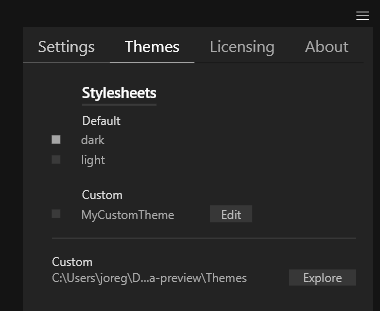
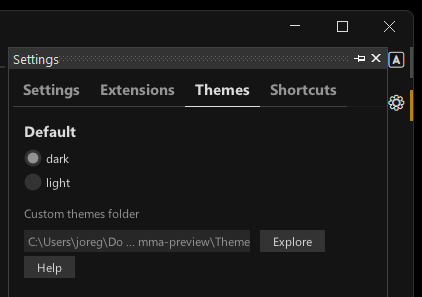
updates info on packman + cosmetics

diff --git a/reference/hde/packman.md b/reference/hde/packman.md
@@ -2,13 +2,41 @@
 
 Available for testing in **[vvvv gamma 8.0 preview builds](/download)**!
 
+The package manager covers two aspects:
+- **Managing references** to packs, files (.vl, .dll, .csproj) and .NET Framework Assemblies
+- **Browsing** for VL and NuGet **packs**, which are bundles of .vl and .dll files that you can install and reference with a single click, giving you access to all nodes the pack exposes.
+
+## Managing References
+
+In this section you get an overview of all referenced packs, files and .NET Framework assemblies. 
+
+Click the "Browse" button in the Packs section to switch to the [package browser](#browsing-packs):
+![](../../images/hde/addpacks.png)
+
+Click the "Add..." button in the Files section to add a reference to either:
+- .vl documents
+- .csproj files
+- .dll files
+  
+![](../../images/hde/addfiles.png)
+
+### .NET Framework Assemblies
+If you need to reference an assembly of a .NET Framework, then always prefer that over referencing the same as a .NET NuGet reference.
+
+what about built-in?
+
+### Node Factories
+If any of the pack or file references has a Node Factory, it will also show up, and can be configured (enabled, forwarded) here.
+
+## Browsing packs
+
 ![](../../images/reference/hde/packman.png)
 
 ## Basic Usage
 
 For basic usage there is not much you need to know:
 - Open Packman using Ctrl + F3
-- Choose the "Browse..." tab
+- Choose the "Browse Packs" tab
 - Find the pack you want to use
 - Click the blue "Add" button to download and reference it to your active document
 - Done
@@ -110,34 +138,6 @@ When installing a pack, vvvv checks against that list and informs you in case yo
 
 ![](../../images/reference/hde/packman-vulnerables.png)
 
-## Quick VL pack reference
-
-The best thing about Packman is that in the end you will not even need it that much! If you already know the name of a VL pack you want to reference, you can now simply add it via the Nodebrowser. Check this: 
-
-<video width=100% controls autoplay>
-    <source src="../../images/reference/hde/packman-nfc.mp4" type="video/mp4">
-    Your browser does not support the video tag.  
-</video>
-
-Type the name of any pack in the nodebrowser, select it and you're done. Any VL pack found in Packman or in the [online packs browser](https://vvvv.org/packs/) can be added like this.
-
-Say what? What does this do exactly? Two things: 
-- Downloads the preferred version (see below) of the pack
-- References this version of the pack with your active VL document
-
-Want to remove the pack again? Same trick:
-
-<video width=100% controls autoplay>
-    <source src="../../images/reference/hde/packman-nfc2.mp4" type="video/mp4">
-    Your browser does not support the video tag.  
-</video>
-
-So when do you now still need Packman? 
-- To search for packs
-- To get more information about a VL pack
-- To adjust versions for referenced packs
-- To search for and reference .NET NuGets (ie. packs that are not specifically made for VL) 
-
 ## Preferred version of a pack
 
 The question may arise: When you simply choose to add a reference of a pack via the Nodebrowser, without specifying a version, what version will you get? The answer: vvvv has an idea of a preferred version per pack and here is how that's computed:
@@ -166,26 +166,8 @@ Little caveat: If you've used favorites in the Helpbrowser before, those will no
 
 ## Support developers
 
-Also please pay extra attention to this special listing: 
+Please pay extra attention to this special listing: 
 
 ![](../../images/reference/hde/packman-support.png)
 
 Packs don't appear out of thin air. They are made and maintained by your fellow patchers. If a pack is useful to you, please support the creator! 
-
-## Install packs via Helpbrowser
-
-There is more. Remember how previously you'd have to find a pack, install it and only then get access to its help patches via the Helpbrowser?
-
-Now, when searching in the Helpbrowser, it also looks for packs that might fit you term and displays those in a separate section at the very bottom labeled "More Packs". If you find anything here, you can one-click download the pack and get instant access to its helps.
-
-![](../../images/reference/hde/packman-helpbrowser.png)
-
-Note the difference: if you download a pack here, it is simply available offline and you can browse its help patches. It is not yet referenced with any of your documents!
-
-Also you may wonder: The content of which packs does the Helpbrowser show at all and in what version? 
-
-Remember: In versions <= 7.x of vvvv gamma, the packs you'd see in the Helpbrowser would always be the most recent ones found in your nuget folder.
-
-Since that folder does not exist anymore, there are now different rules: 
-- If a specific version of a pack is loaded, the Helpbrowser shows the help content of that particular version
-- Otherwise, the Helpbrowser shows the content of the preferred version (see above) of the pack, but only if it is already available on your system (ie. you have had it referenced/downloaded before)

diff --git a/reference/getting-started/cc/introduction-for-creative-coders.md b/reference/getting-started/cc/introduction-for-creative-coders.md
@@ -22,15 +22,17 @@ If you're familiar with visual creative coding environments, like:
 
 ... then the following could be interesting for you:
 
-### Vast, modular, open-source library of nodes
-Browse the [Library](../../libraries/overview.md) section to get an overview of the availability of a vast range of different libraries for vvvv, most of which are open-source (some not yet, but only for organisational reasons). Apart from the [VL.CoreLib](../../libraries/corelib.md) the three biggest to date are:
+### The Node Library
+
+vvvv is built in a very modular way. The initial download is only about 100mb (as of vvvv 8.0). Any additional functionality you want to use can be installed at the click of a button via the built-in [package manager](/reference/hde/packman.md). There is also this [online package browser](https://vvvv.org/packs) to give you an idea of what's available before even installing vvvv. 
+
+Almost all libraries are open-source, including all of the core libraries, like:
 - VL.Stride: for 3d rendering, shader programming, VR,... based on [Stride](http://stride3d.net)
 - VL.Skia: for 2d rendering, vector graphics export,... based on [Skia](https://skia.org)
 - [VL.OpenCV](https://www.nuget.org/packages/VL.OpenCV): for computer vision,... based on [OpenCV](http://opencv.org)
 - [VL.Fuse](https://www.nuget.org/packages/VL.Fuse): a collection of GPU tools and libraries to use with VL.Stride
-- [VL.Elementa](https://www.nuget.org/packages/VL.Elementa): a UI widget library for VL.Skia  
 
-Further there is a big focus on supporting loads of [Devices](https://thegraybook.vvvv.org/reference/libraries/devices.html) and [Protocols](https://thegraybook.vvvv.org/reference/libraries/io.html) out of the box.
+Further there is a big focus on supporting loads of [Devices](https://vvvv.org/packs/?c=Devices) and [Protocols](https://vvvv.org/packs/?c=IO) out of the box.
 
 ### Export Windows applications
 Any program you build with vvvv can be [exported](../../hde/exporting.md) as a proper Windows application. Other platforms are planned. 

diff --git a/reference/hde/the_nodebrowser.md b/reference/hde/the_nodebrowser.md
@@ -96,12 +96,33 @@ The language primitives are written in _italic_:
 
 Many of the primitives can be given a name directly after choosing to create them via the NodeBrowser. For Pins and Pads it also works the other way round: type a name into the NodeBrowser and then click Pin/Pad to create the respective element with already the desired name set.
 
-## Available Nugets
-Nugets that are available for VL but not referenced by the active document show up in the NodeBrowser from where you can quickly reference them via a single click. After the nuget is referenced all its nodes show up in the NodeBrowser.
+## Referencing packs
 
-<img src="../../images/hde/vl-Nodebrowser-Nugets.png" height="460">
+All [available packs](https://vvvv.org/packs/) can directly be referenced via the Node Browser, without having to go via [Packman](packman.md).
 
-If you want to get rid of a nuget again you have to uncheck it in the documents list of dependencies.
+Type the name of any pack in the nodebrowser, select it and you're done:
+
+<video width=100% controls autoplay>
+    <source src="../../images/reference/hde/packman-nfc.mp4" type="video/mp4">
+    Your browser does not support the video tag.  
+</video>
+
+What does this do exactly? Two things: 
+- Downloads the preferred version (see below) of the pack
+- References this version of the pack with your active VL document
+
+Want to remove the pack again? Same trick:
+
+<video width=100% controls autoplay>
+    <source src="../../images/reference/hde/packman-nfc2.mp4" type="video/mp4">
+    Your browser does not support the video tag.  
+</video>
+
+So when do you now still need [Packman](packman.md)? 
+- To search for packs
+- To get more information about a VL pack
+- To adjust versions for referenced packs
+- To search for and reference .NET NuGets (ie. packs that are not specifically made for VL) 
 
 ## Nodes that only differ by Signature
 We typically distinguish nodes by Name, Version or Category.

diff --git a/reference/getting-started/dotnet/introduction-for-dotnet-programmers.md b/reference/getting-started/dotnet/introduction-for-dotnet-programmers.md
@@ -2,9 +2,9 @@
 
 VL is a visual programming language for [.NET](https://en.wikipedia.org/wiki/.NET). It combines dataflow programming with features known from object-oriented programming. vvvv is the editing environment for VL.
 
-- Versions 5.x of vvvv are using .NET6
-- Versions 6.x and 7.x of vvvv are using .NET8
 - Versions 8.x of vvvv is using .NET10
+- Versions 6.x and 7.x of vvvv are using .NET8
+- Versions 5.x of vvvv are using .NET6
 
 With direct access to all of .NETs libraries you can basically use it as just another .NET language like C# or F#. But since most of those libraries were not created with dataflow in mind, we've curated a library for you that is much more comfortable to use and is the default referenced library when creating a new VL document.
 

diff --git a/reference/hde/keyboard-shortcuts.md b/reference/hde/keyboard-shortcuts.md
@@ -26,9 +26,10 @@ Description|Action
 -|-
 About|<span class="keyseq"><kbd>Shift</kbd><kbd>F1</kbd></span>
 Application Exporter|<span class="keyseq"><kbd>F10</kbd></span>
+Debug Views|<span class="keyseq"><kbd>Ctrl</kbd><kbd>F2</kbd></span>
+Packman|<span class="keyseq"><kbd>Ctrl</kbd><kbd>F3</kbd></span>
 Channel Browser|<span class="keyseq"><kbd>Ctrl</kbd><kbd>F4</kbd></span>
 Console|<span class="keyseq"><kbd>Ctrl</kbd><kbd>F5</kbd></span>
-Debug Views|<span class="keyseq"><kbd>Ctrl</kbd><kbd>F2</kbd></span>
 Help Browser|<span class="keyseq"><kbd>F1</kbd></span>
 Inspector|<span class="keyseq"><kbd>Ctrl</kbd><kbd>I</kbd></span>
 Key & Mouse Display|<span class="keyseq"><kbd>Shift</kbd><kbd>F2</kbd></span>

diff --git a/reference/hde/settings.md b/reference/hde/settings.md
@@ -1,12 +1,10 @@
 # Settings
 
-The settings can be found in the Hamburger menu in the top right corner of the editor window:
+The settings <span class="keyseq"><kbd>Ctrl</kbd><kbd>F1</kbd></span> can be found in the ![](../../images/hde/settings-icon.png) menu in the top right corner of the editor window:
 
-![](../../images/reference/hde/settings.png)
-
-In versions prior to 2021.4,  the settings had to be edited manually in a text file, see: `Quad > Settings`.
+![](../../images/hde/settings.png)
 
 ## Local Settings
 You can also provide a local settings file via commandline options when you start up vvvv.exe:
 
-    --settings C:\path\to\setings.xml
+    --settings C:\path\to\settings.xml

diff --git a/reference/hde/themes.md b/reference/hde/themes.md
@@ -1,6 +1,6 @@
 # Themes
 
-The vvvv editor supports theming. You can quickly switch between a dark and light theme via the Hamburger menu in the top right corner:
+The vvvv editor supports theming. You can quickly switch between a dark and light theme via the ![](../../images/hde/settings-icon.png) menu (<span class="keyseq"><kbd>Ctrl</kbd><kbd>F1</kbd></span>) in the top right corner:
 
 ![](../../images/hde/themes.png)
 
